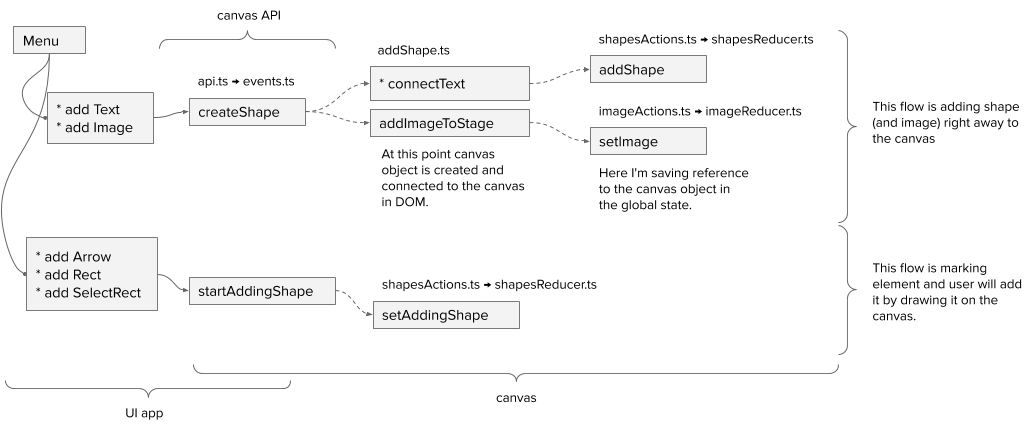
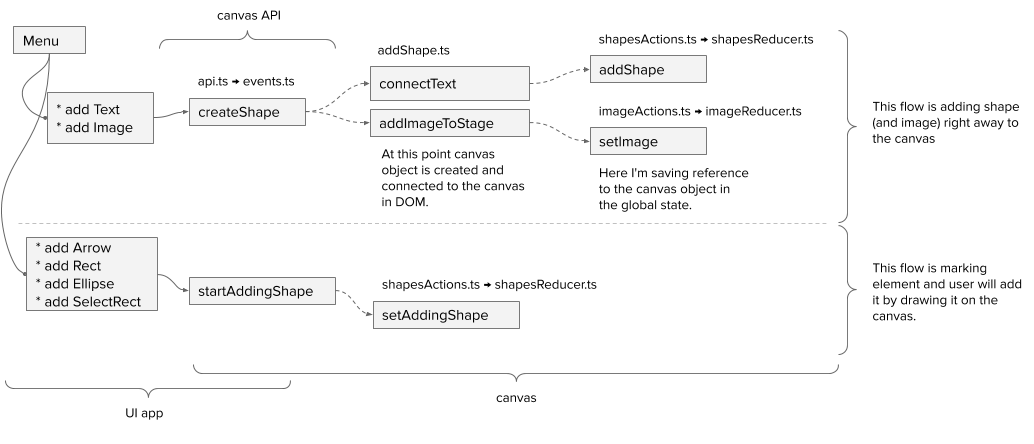
updated documentation

Changed region(s): [[0.0309, 0.527, 0.1547, 0.7027], [0.3714, 0.1757, 0.4642, 0.205]]

diff --git a/srcCanvas/Image/CanvasImage.ts b/srcCanvas/Image/CanvasImage.ts
@@ -33,11 +33,11 @@ class CanvasImage {
         this.#layer.moveToBottom();
     }
 
-    // Standard `click` event is not good option.
+    // Standard `click` event is a not good option.
     // You can click on the canvas, keep mouse button down and start dragging,
     // and `click` event will be fired when you release the button.
     // This is bad, since this is what I do, when creating shapes,
-    // I don't need blur event right after shape is created
+    // I don't need blur event right after shape is created.
     bindClickEvent() {
         this.#layer.on('mousedown', (e) => {
             this.#mouseIsDown = true;

diff --git a/srcCanvas/Ellipse/Ellipse.tsx b/srcCanvas/Ellipse/Ellipse.tsx
@@ -4,10 +4,9 @@ import Konva, {TPos} from 'konva';
 import EShapeTypes from '../Shape/shapeTypes';
 import SizeTransform from '../SizeTransform/SizeTransform';
 import {TSizePosition} from '../SizeTransform/SizeTransformAnchorsGroup';
-import IGeometricShape from '../Shape/IGeometricShape';
 import Rect, {TRectProps} from '../Rect/Rect';
 
-class Ellipse extends Rect implements IGeometricShape {
+class Ellipse extends Rect {
     readonly type = EShapeTypes.ELLIPSE;
 
     readonly props: TRectProps;

diff --git a/documentation/README.md b/documentation/README.md
@@ -8,6 +8,10 @@
 
 ![Create shape events flow](./creat-shape-events-flow.png)
 
+### Shapes inheritance
+
+![Shapes inheritance](./shapes-inheritance.png)
+
 ### Code structure
 
 The main codebase is separated into 2 modules:
